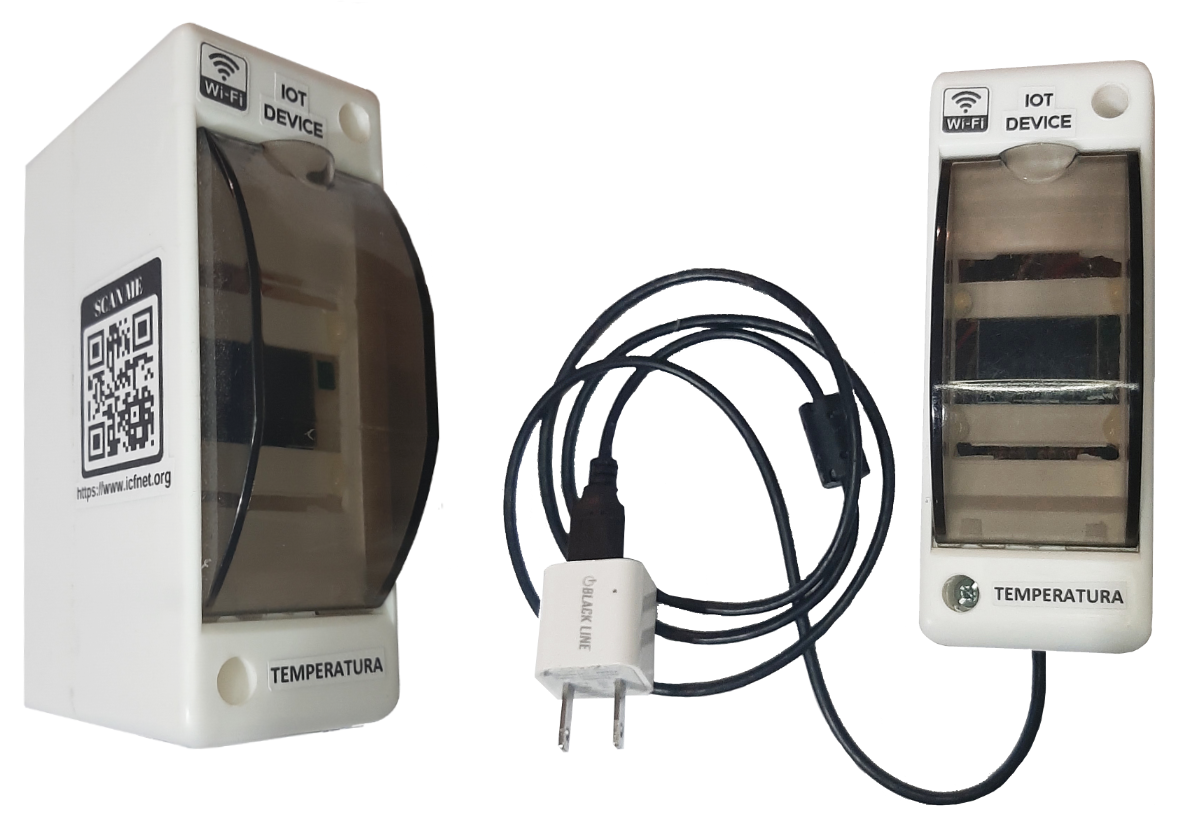
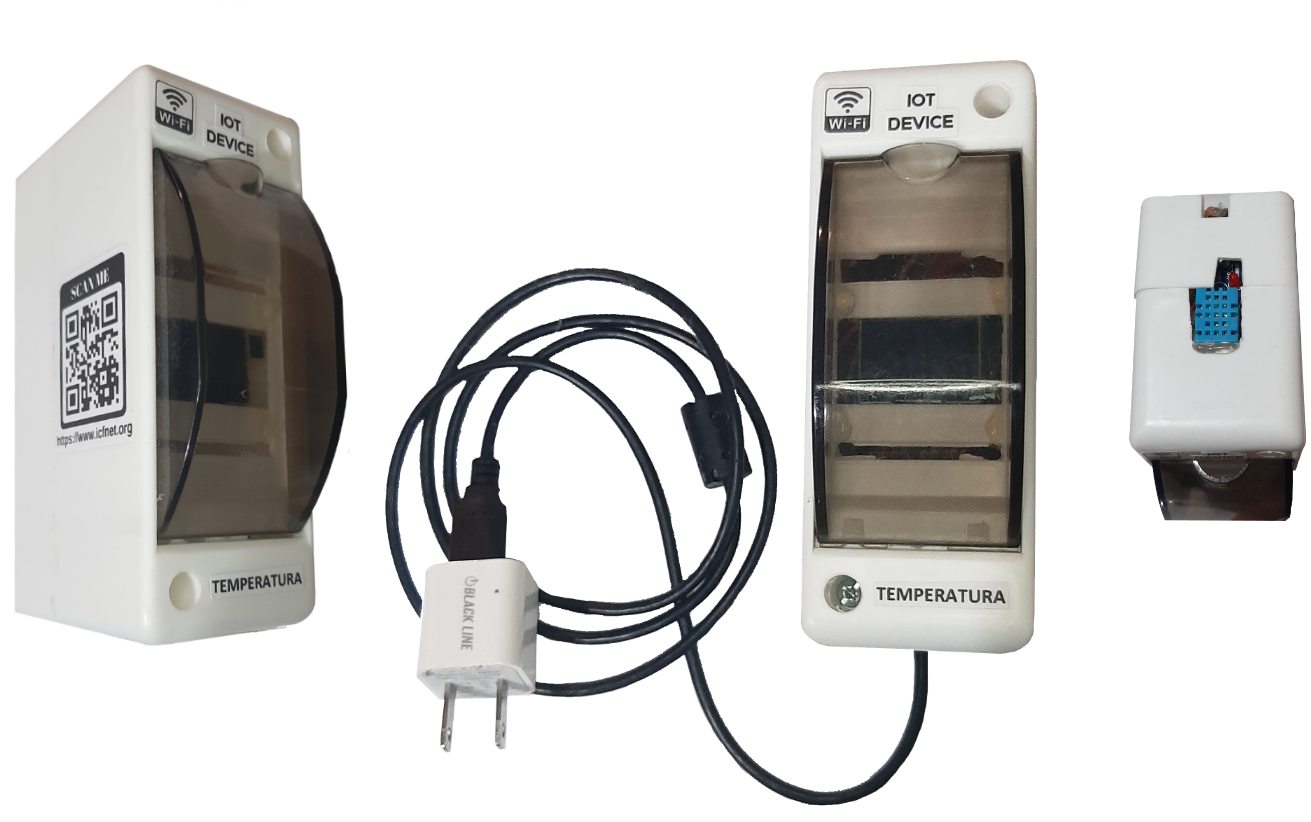
Imagenes GUI
Avance del cap4

diff --git a/Chapters/Chapter3.tex b/Chapters/Chapter3.tex
@@ -41,7 +41,8 @@ En la tabla \ref{tab:tablamodulos} se detalla el desarrollo de cada uno de los m
 		\textbf{Módulo} 	 & \textbf{Desarrollo}  & \textbf{Tipo dispositivo}\\
 		\midrule
 		Módulo principal & Hardware + Software & Físico\\		
-		Módulo réplica & Software & Lógico \\
+		Módulo replicador & Software (procesos internos)& Lógico \\
+		Módulo réplica & Software - remoto & Lógico \\
 		Módulo de temperatura & Hardware + Firmware + Software & Físico\\		
 		Módulo actuador & Hardware + Firmware + Software & Físico\\		
 		Módulo de consumo	 & Hardware + Firmware + Software & Físico\\
@@ -245,7 +246,7 @@ Para el gabinete de integración se consideró una cubierta de aluminio. La figu
 \end{figure}
 
 \vspace{0.5cm}
-Características del case Argon One Pi4 V2 \citep{WEBSITE:16}:
+Características del case de integración Argon One Pi4 V2 \citep{WEBSITE:16}:
 
 \begin{itemize}
 \item Tiene una placa Raspberry Pi Sata, que está diseñada para maximizar las transferencias de datos de alta velocidad para el uso de SSD Raspberry Pi 4; lo que la hace perfecta para el uso multimedia y otras aplicaciones. 
@@ -273,9 +274,9 @@ El modulo principal tiene la capacidad de conectarse a la red vía Wi-Fi o vía 
 %%%%%%%%%%%%%%%%%%%%%%%%%%%%%%%%%%%%%%%%%%%%%%%%%%%%%%%%%%%%%%%%%%%%%%%%%%%
 
 
-\subsection{Módulo de replicación a la nube}
+\subsection{Módulo replicador a la nube}
 
-Para el desarrollo de este módulo se diseñó una estructura interna compuesta por subprocesos, que al trabajar en conjunto forman el sistema completo de replicación.
+Este módulo esta dentro del módulo principal y para su desarrollo de se diseñó una estructura interna compuesta por subprocesos, que al trabajar en conjunto forman el sistema completo de replicación.
 
 La replicación solo se da mientras exista conexión a internet. El desarrollo de cada subproceso se programó en el lenguaje de programación Python por tratarse de un lenguaje multiplataforma, robusto y orientado a objetos. La figura \ref{fig:logicareplicador} ilustra la lógica de trabajo del replicador.
 
@@ -567,12 +568,8 @@ Los valores del consumo total serán usados para generar la facturación mensual
 
 
 \end{enumerate}
-
-
-
-\section{Configuración de la red WLAN}
-
-El diseño y la configuración de la red WLAN tiene un rol fundamental dentro del desempeño del sistema porque permite garantizar un canal de comunicación más seguro si interferir la red doméstica.
+\subsection{Módulo réplica}
+Este módulo contiene una copia del software de monitoreo y control pero con la diferencia que esta siendo ejecutado en la nube, usando los servicios de un servidor y un broker remoto.
 
 %%%%%%%%%%%%%%%%%%%%%%%%%%%%%%%%%%%%%%%%%%%%%%%%%%%%%%%%%%%%%%%%%%%%%%%%%%%%%
 \begin{landscape} % esto es para rotar la pagina e imagen
@@ -585,8 +582,11 @@ El diseño y la configuración de la red WLAN tiene un rol fundamental dentro de
 \end{landscape} % 
 %%%%%%%%%%%%%%%%%%%%%%%%%%%%%%%%%%%%%%%%%%%%%%%%%%%%%%%%%%%%%%%%%%%%%%%%%%%%%%
 
+\section{Configuración de la red WLAN}
 
-\subsection{Diseño de la red física}
+El diseño y la configuración de la red WLAN tiene un rol fundamental dentro del desempeño del sistema porque permite garantizar un canal de comunicación más seguro si interferir la red doméstica.
+
+\subsection{Diseño de la red física local}
 
 Para dicha tarea se usó un Router inalámbrico como puntos de acceso para los sensores y actuadores del sistema dentro de la red interna del hogar o edificio. La figura ... ilustra el diseño físico de la red usada.
 
@@ -596,19 +596,16 @@ Los principales criterios de configuración del router inalámbrico son la segur
 
 \begin{figure}[htpb]
 \centering 
-\includegraphics[width=0.75\textwidth]{./Figures/router.jpg}
+\includegraphics[width=0.7\textwidth]{./Figures/router.jpg}
 \caption{..... .}
 \label{fig:router}
 \end{figure}
 
 Este router tiene tres formas de funcionamiento: access point, router y repetidor. Para nuestro uso se seleccionó la configuración para un access point (AP) o punto de acceso. La figura… muestra la configuración del modo de funcionamiento.
 
-\begin{figure}[htpb]
-\centering 
-\includegraphics[width=0.85\textwidth]{./Figures/funcionamientorouter.png}
-\caption{..... .}
-\label{fig:funcionamientorouter}
-\end{figure}
+Uno de los problemas más comunes con las redes WiFi es el solapamiento de canales debido a la gran cantidad de equipos que funcionan en la banda de frecuencia de 2,4 GHz. La configuración de red puede ser un motivo para problemas de Wi-Fi. La conexión a Internet lenta y las desconexiones pueden ocurrir si la red inalámbrica no está configurada correctamente o si hay demasiados dispositivos que están compitiendo por el espacio aéreo inalámbrico de la red. 
+
+Cada equipo WiFi que cumple con el estándar 802.11 b/g utiliza uno de los 13 canales establecidos de 14 en total y si 2 o más equipos cercanos utilizan el mismo canal, se produce el solapamiento. Cada canal ocupa un ancho de banda de 22 MHz. El efecto del solapamiento es la bajada en el rendimiento (velocidad) de las redes afectadas..........
 
 %%%%%%%%%%%%%%%%%%%%%%%%%%%%%%%%%%%%%%%%%%%%%%%%%%%%%%%%%%%%%%%%%%%%%%%%%%%%%
 \begin{landscape} % esto es para rotar la pagina e imagen
@@ -621,9 +618,12 @@ Este router tiene tres formas de funcionamiento: access point, router y repetido
 \end{landscape} % 
 %%%%%%%%%%%%%%%%%%%%%%%%%%%%%%%%%%%%%%%%%%%%%%%%%%%%%%%%%%%%%%%%%%%%%%%%%%%%%%
 
-Uno de los problemas más comunes con las redes WiFi es el solapamiento de canales debido a la gran cantidad de equipos que funcionan en la banda de frecuencia de 2,4 GHz. La configuración de red puede ser un motivo para problemas de Wi-Fi. La conexión a Internet lenta y las desconexiones pueden ocurrir si la red inalámbrica no está configurada correctamente o si hay demasiados dispositivos que están compitiendo por el espacio aéreo inalámbrico de la red. 
-
-Cada equipo WiFi que cumple con el estándar 802.11 b/g utiliza uno de los 13 canales establecidos de 14 en total y si 2 o más equipos cercanos utilizan el mismo canal, se produce el solapamiento. Cada canal ocupa un ancho de banda de 22 MHz. El efecto del solapamiento es la bajada en el rendimiento (velocidad) de las redes afectadas..........
+\begin{figure}[htpb]
+\centering 
+\includegraphics[width=0.7\textwidth]{./Figures/funcionamientorouter.png}
+\caption{..... .}
+\label{fig:funcionamientorouter}
+\end{figure}
 
 El siguiente gráfico muestra el ancho de banda utilizado por cada canal y el solapamiento que se produce entre ellos.
 
@@ -653,7 +653,7 @@ Para la elección de la anchura del canal se establece en 20 MHz para la banda d
 
 \begin{figure}[htpb]
 \centering 
-\includegraphics[width=0.8\textwidth]{./Figures/configuracioncanal.png}
+\includegraphics[width=0.72\textwidth]{./Figures/configuracioncanal.png}
 \caption{..... .}
 \label{fig:configuracioncanal}
 \end{figure}
@@ -662,7 +662,7 @@ Para los casos donde se amplía el canal (40 MHz), eso significa duplicar las in
 
 \begin{figure}[htpb]
 \centering 
-\includegraphics[width=0.8\textwidth]{./Figures/configuracionancho.png}
+\includegraphics[width=0.72\textwidth]{./Figures/configuracionancho.png}
 \caption{..... .}
 \label{fig:configuracionancho}
 \end{figure}

diff --git a/Chapters/Chapter4.tex b/Chapters/Chapter4.tex
@@ -39,7 +39,7 @@ foto del modulo de temperatura.
 \begin{figure}[htpb]
 \centering 
 \includegraphics[width=0.9\textwidth]{./Figures/moduloTemp.png}
-\caption{Vista lateral y frente del módulo de temperatura.}
+\caption{Vista lateral, frente y superior del módulo de temperatura.}
 \label{fig:modTemp}
 \end{figure}
 
@@ -51,7 +51,7 @@ foto del modulo actuador y consumo.
 \begin{figure}[htpb]
 \centering 
 \includegraphics[width=1.8\textwidth]{./Figures/consumo2.png}
-\caption{Vista frontal y lateral del módulo de consumo y actuador}
+\caption{Vista frontal y lateral del módulo actuador y módulo de consumo.}
 \label{fig:modConsumo2}
 \end{figure}
 \end{landscape} %
@@ -59,6 +59,102 @@ foto del modulo actuador y consumo.
 
 %%%%%%%%%%%%%%%%%%%%%%%%%%%%%%%%%%%%%%%%%%%%%%%%%%%
 \section{Interfaces gráficas del sistema de monitoreo}
+
+%%%%%%%%%%%%%%%%%%%%%%%%%%%%%%%%%%%%%%%%%%%%%%%%%%%
+\begin{landscape} % esto es para rotar la pagina e imagen
+\begin{figure}[htpb]
+\centering 
+\includegraphics[width=1.55\textwidth]{./Figures/gui/0.png}
+\caption{Interfaz gráfica de usuario de acceso al software de monitoreo y control.}
+\label{fig:gui0}
+\end{figure}
+\end{landscape} %
+
+%%%%%%%%%%%%%%%%%%%%%%%%%%%%%%%%%%%%%%%%%%%%%%%%%%%
+
+%%%%%%%%%%%%%%%%%%%%%%%%%%%%%%%%%%%%%%%%%%%%%%%%%%%
+\begin{landscape} % esto es para rotar la pagina e imagen
+\begin{figure}[htpb]
+\centering 
+\includegraphics[width=1.55\textwidth]{./Figures/gui/1.png}
+\caption{Dashboard inicial del software de monitoreo y control.}
+\label{fig:gui1}
+\end{figure}
+\end{landscape} %
+
+%%%%%%%%%%%%%%%%%%%%%%%%%%%%%%%%%%%%%%%%%%%%%%%%%%%
+
+%%%%%%%%%%%%%%%%%%%%%%%%%%%%%%%%%%%%%%%%%%%%%%%%%%%
+\begin{landscape} % esto es para rotar la pagina e imagen
+\begin{figure}[htpb]
+\centering 
+\includegraphics[width=1.55\textwidth]{./Figures/gui/2.png}
+\caption{Interfaz gráfica de usuario donde se listan los sensores del sistema.}
+\label{fig:gui2}
+\end{figure}
+\end{landscape} %
+
+%%%%%%%%%%%%%%%%%%%%%%%%%%%%%%%%%%%%%%%%%%%%%%%%%%%
+
+%%%%%%%%%%%%%%%%%%%%%%%%%%%%%%%%%%%%%%%%%%%%%%%%%%%
+\begin{landscape} % esto es para rotar la pagina e imagen
+\begin{figure}[htpb]
+\centering 
+\includegraphics[width=1.5\textwidth]{./Figures/gui/2-1.png}
+\caption{Interfaz gráfica de usuario donde se muestran todos los detalles de un sensor.}
+\label{fig:gui2-1}
+\end{figure}
+\end{landscape} %
+
+%%%%%%%%%%%%%%%%%%%%%%%%%%%%%%%%%%%%%%%%%%%%%%%%%%%
+
+%%%%%%%%%%%%%%%%%%%%%%%%%%%%%%%%%%%%%%%%%%%%%%%%%%%
+\begin{landscape} % esto es para rotar la pagina e imagen
+\begin{figure}[htpb]
+\centering 
+\includegraphics[width=1.52\textwidth]{./Figures/gui/3.png}
+\caption{Interfaz gráfica de usuario donde se listan los sensores de consumo junto a su función de actuador.}
+\label{fig:gui3}
+\end{figure}
+\end{landscape} %
+
+%%%%%%%%%%%%%%%%%%%%%%%%%%%%%%%%%%%%%%%%%%%%%%%%%%%
+
+%%%%%%%%%%%%%%%%%%%%%%%%%%%%%%%%%%%%%%%%%%%%%%%%%%%
+\begin{landscape} % esto es para rotar la pagina e imagen
+\begin{figure}[htpb]
+\centering 
+\includegraphics[width=1.52\textwidth]{./Figures/gui/3-1.png}
+\caption{Interfaz gráfica de usuario donde se muestran todos los detalles de un sensor de consumo.}
+\label{fig:gui3-1}
+\end{figure}
+\end{landscape} %
+
+%%%%%%%%%%%%%%%%%%%%%%%%%%%%%%%%%%%%%%%%%%%%%%%%%%%
+
+%%%%%%%%%%%%%%%%%%%%%%%%%%%%%%%%%%%%%%%%%%%%%%%%%%%
+\begin{landscape} % esto es para rotar la pagina e imagen
+\begin{figure}[htpb]
+\centering 
+\includegraphics[width=1.55\textwidth]{./Figures/gui/4.png}
+\caption{Interfaz gráfica de usuario para agregar un nuevo dispositivo al sistema.}
+\label{fig:gui4}
+\end{figure}
+\end{landscape} %
+
+%%%%%%%%%%%%%%%%%%%%%%%%%%%%%%%%%%%%%%%%%%%%%%%%%%%
+
+%%%%%%%%%%%%%%%%%%%%%%%%%%%%%%%%%%%%%%%%%%%%%%%%%%%
+\begin{landscape} % esto es para rotar la pagina e imagen
+\begin{figure}[htpb]
+\centering 
+\includegraphics[width=1.5\textwidth]{./Figures/gui/5.png}
+\caption{Interfaz gráfica de usuario donde se muestran las consultas y reportes de la base de datos.}
+\label{fig:gui5}
+\end{figure}
+\end{landscape} %
+
+%%%%%%%%%%%%%%%%%%%%%%%%%%%%%%%%%%%%%%%%%%%%%%%%%%%
 
 \section{Pruebas de elección de canal y ancho de banda}
 

diff --git a/memoria.tex b/memoria.tex
@@ -41,7 +41,7 @@ headsepline, % Uncomment to get a line under the header
 %\posgrado{Maestría en Sistemas Embebidos} 
 %\posgrado{Maestría en Internet de las cosas}
 
-\author{Daniel Iván Cruz Flores} % Tu nombre, se usa en la carátula y se puede usar el cualquier lugar del documento con el comando \authorname
+\author{BScs. Daniel Iván Cruz Flores} % Tu nombre, se usa en la carátula y se puede usar el cualquier lugar del documento con el comando \authorname
 
 \director{Mg. Ing. Matías Alvarez (FIUBA)} % El nombre del director, se usa en la carátula y se puede usar el cualquier lugar del documento con el comando \dirname
 \codirector{Nombre del codirector (pertenencia)} % El nombre del codirector si lo hubiera, se usa en la carátula y se puede usar el cualquier lugar del documento con el comando \codirname.  Para activar este campo se debe descomentar la opción "codirector" en el comando \documentclass, línea 23.
